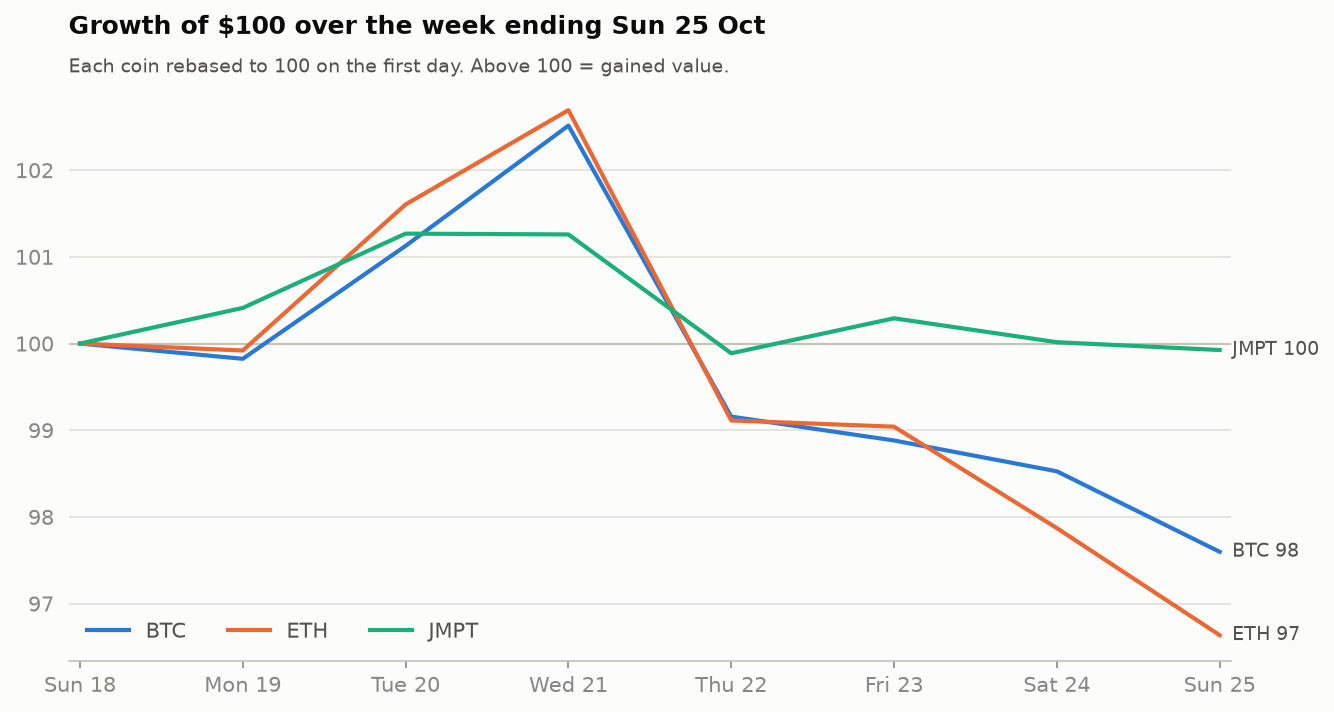
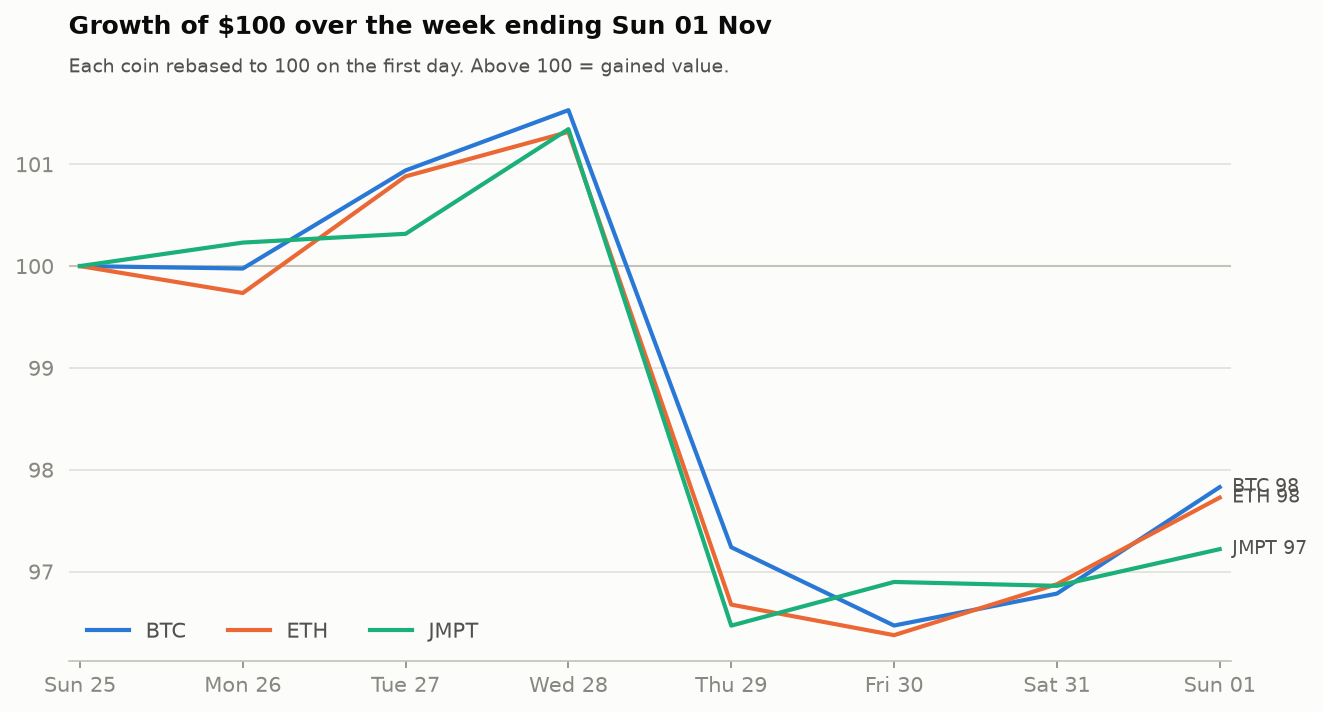
post: weekly LinkedIn draft 2026-11-02

diff --git a/posts/latest.md b/posts/latest.md
@@ -1,13 +1,13 @@
-📈 My crypto tracker: week ending Sun 25 Oct
+📈 My crypto tracker: week ending Sun 01 Nov
 
-A red week across the board. JMPT held up best (-0.1%).
+A red week across the board. BTC held up best (-2.2%).
 
-🔴 JMPT: -0.1% ($0.5344)
-🔴 BTC: -2.4% ($80,049)
-🔴 ETH: -3.4% ($2,327)
+🔴 BTC: -2.2% ($78,311)
+🔴 ETH: -2.3% ($2,274)
+🔴 JMPT: -2.8% ($0.5196)
 
-⚡ Biggest single-day move: ETH -3.5% on Thursday.
-📊 Calmest coin over the last 30 days: JMPT (18% annualized volatility).
+⚡ Biggest single-day move: JMPT -4.8% on Thursday.
+📊 Calmest coin over the last 30 days: JMPT (24% annualized volatility).
 
 ✍ [Add one sentence of your own here. What surprised you this week?]
 
